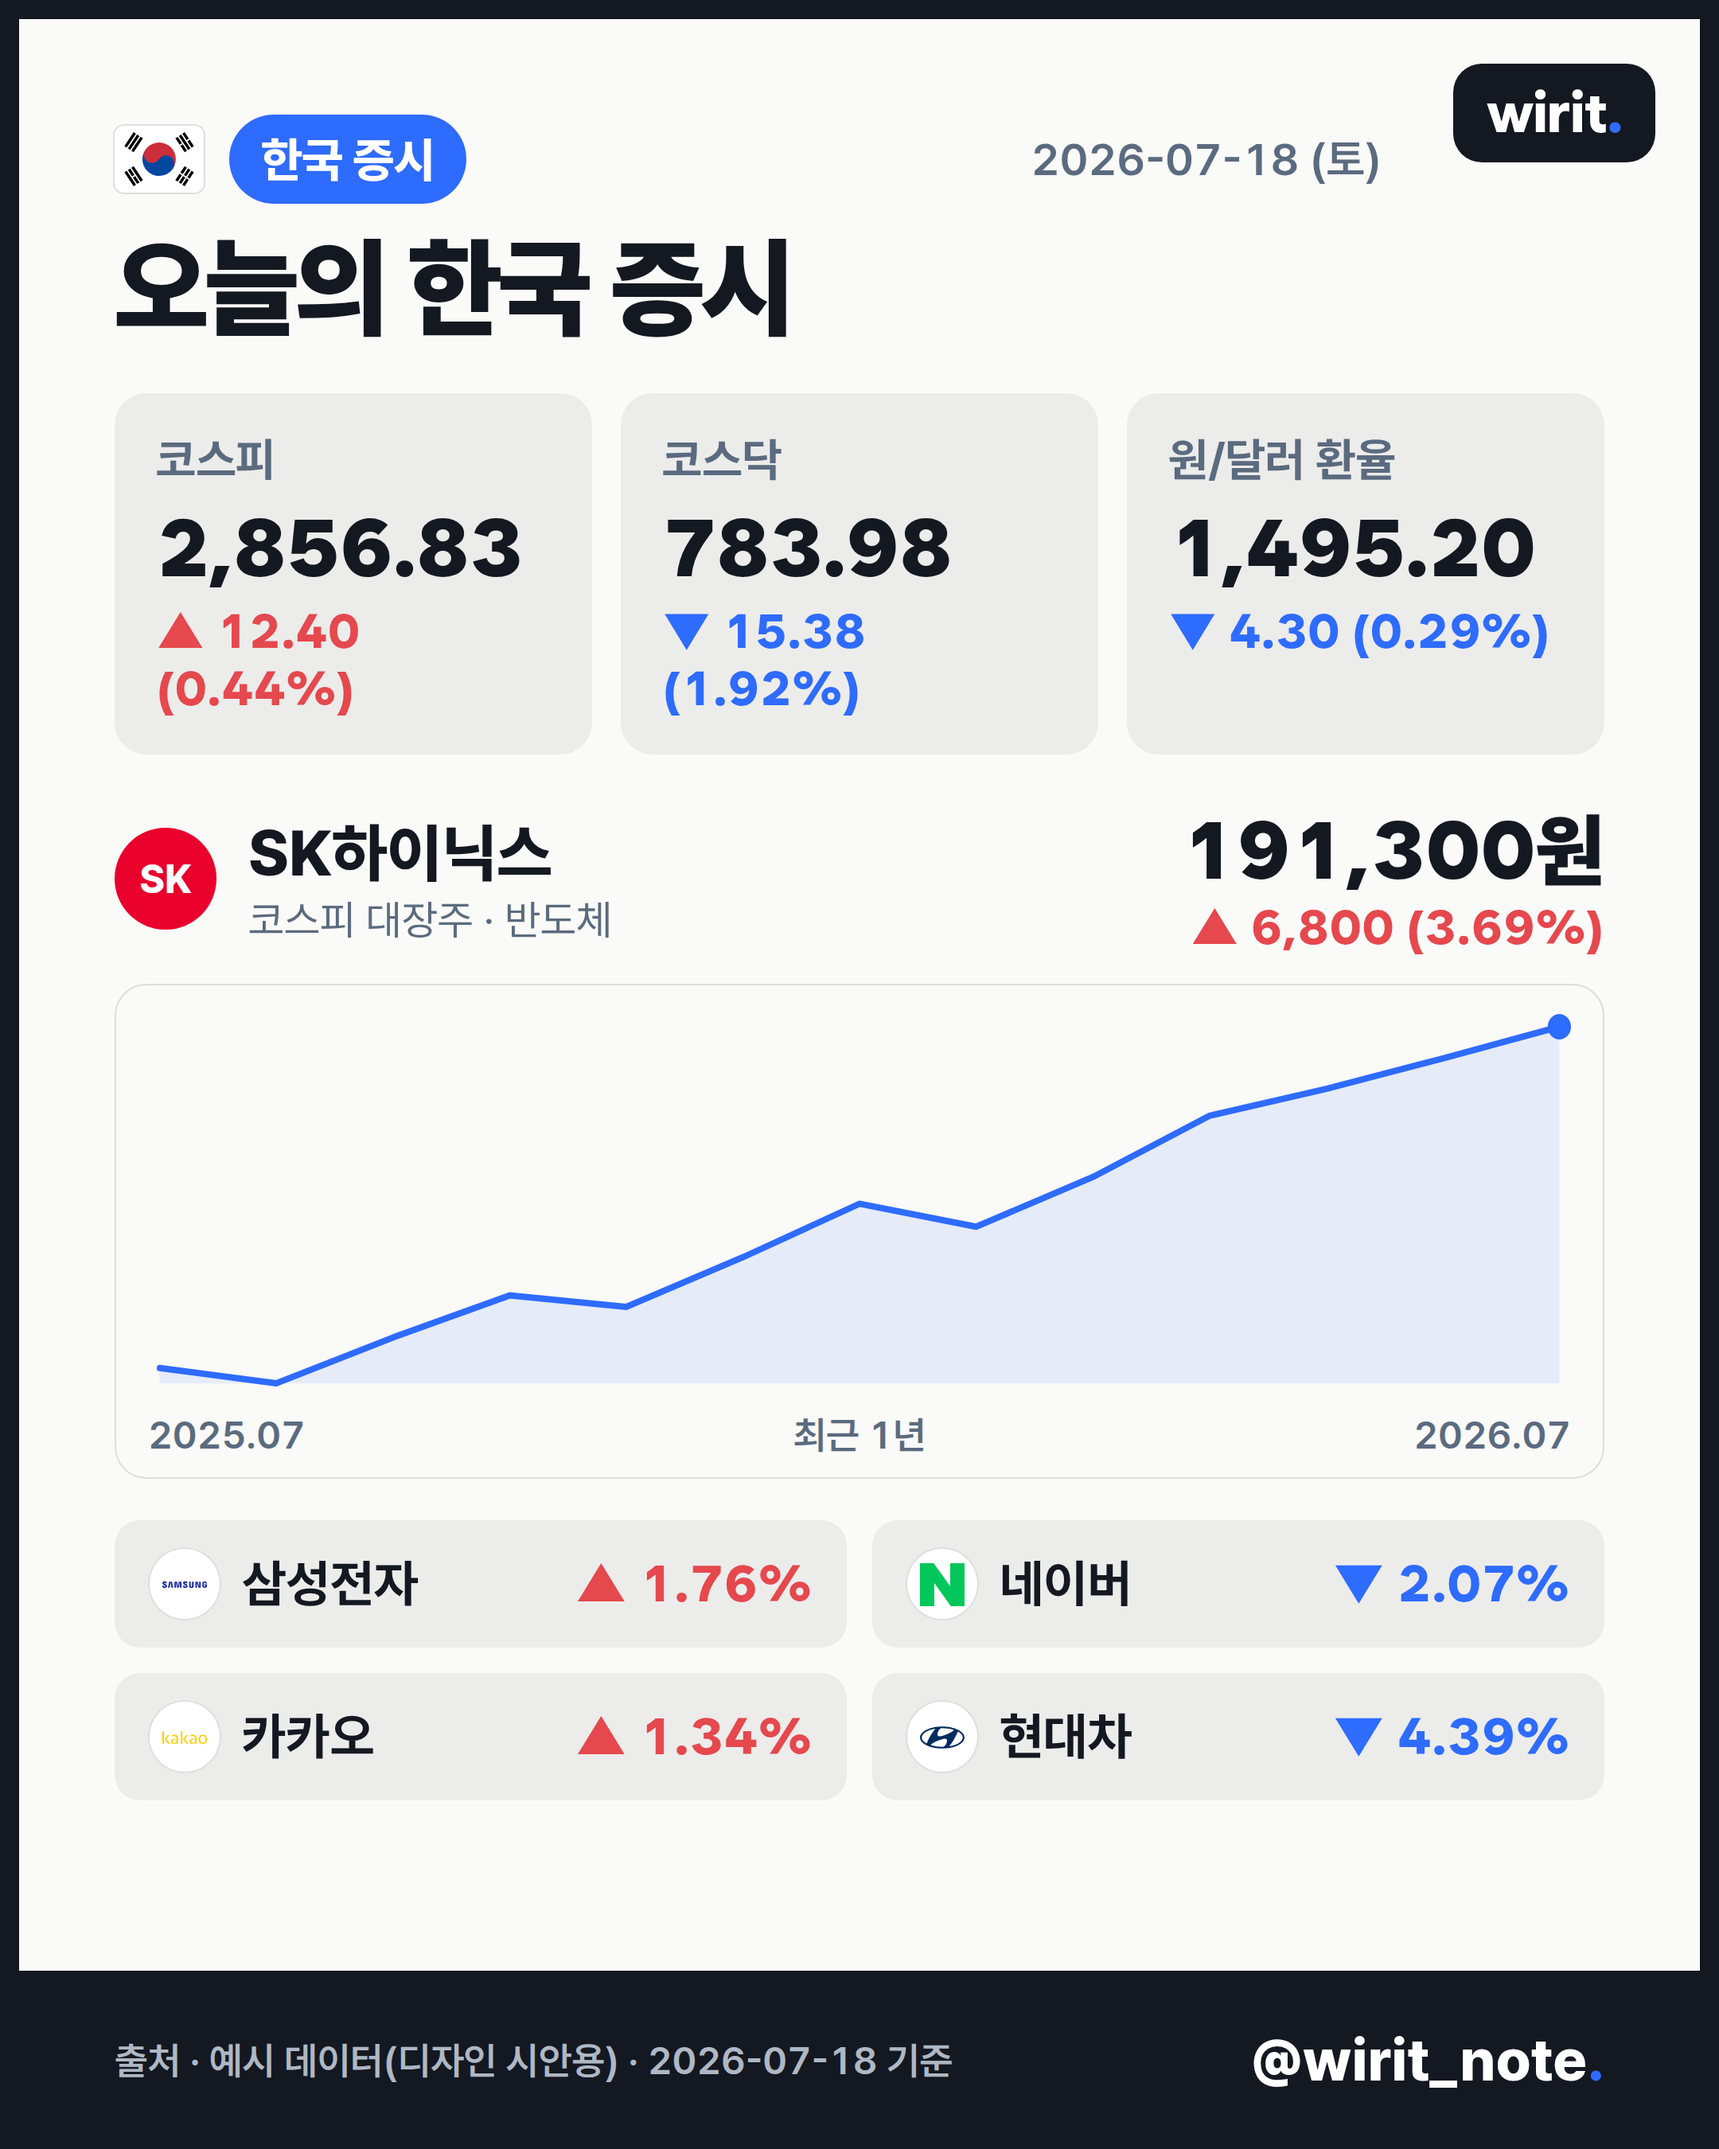
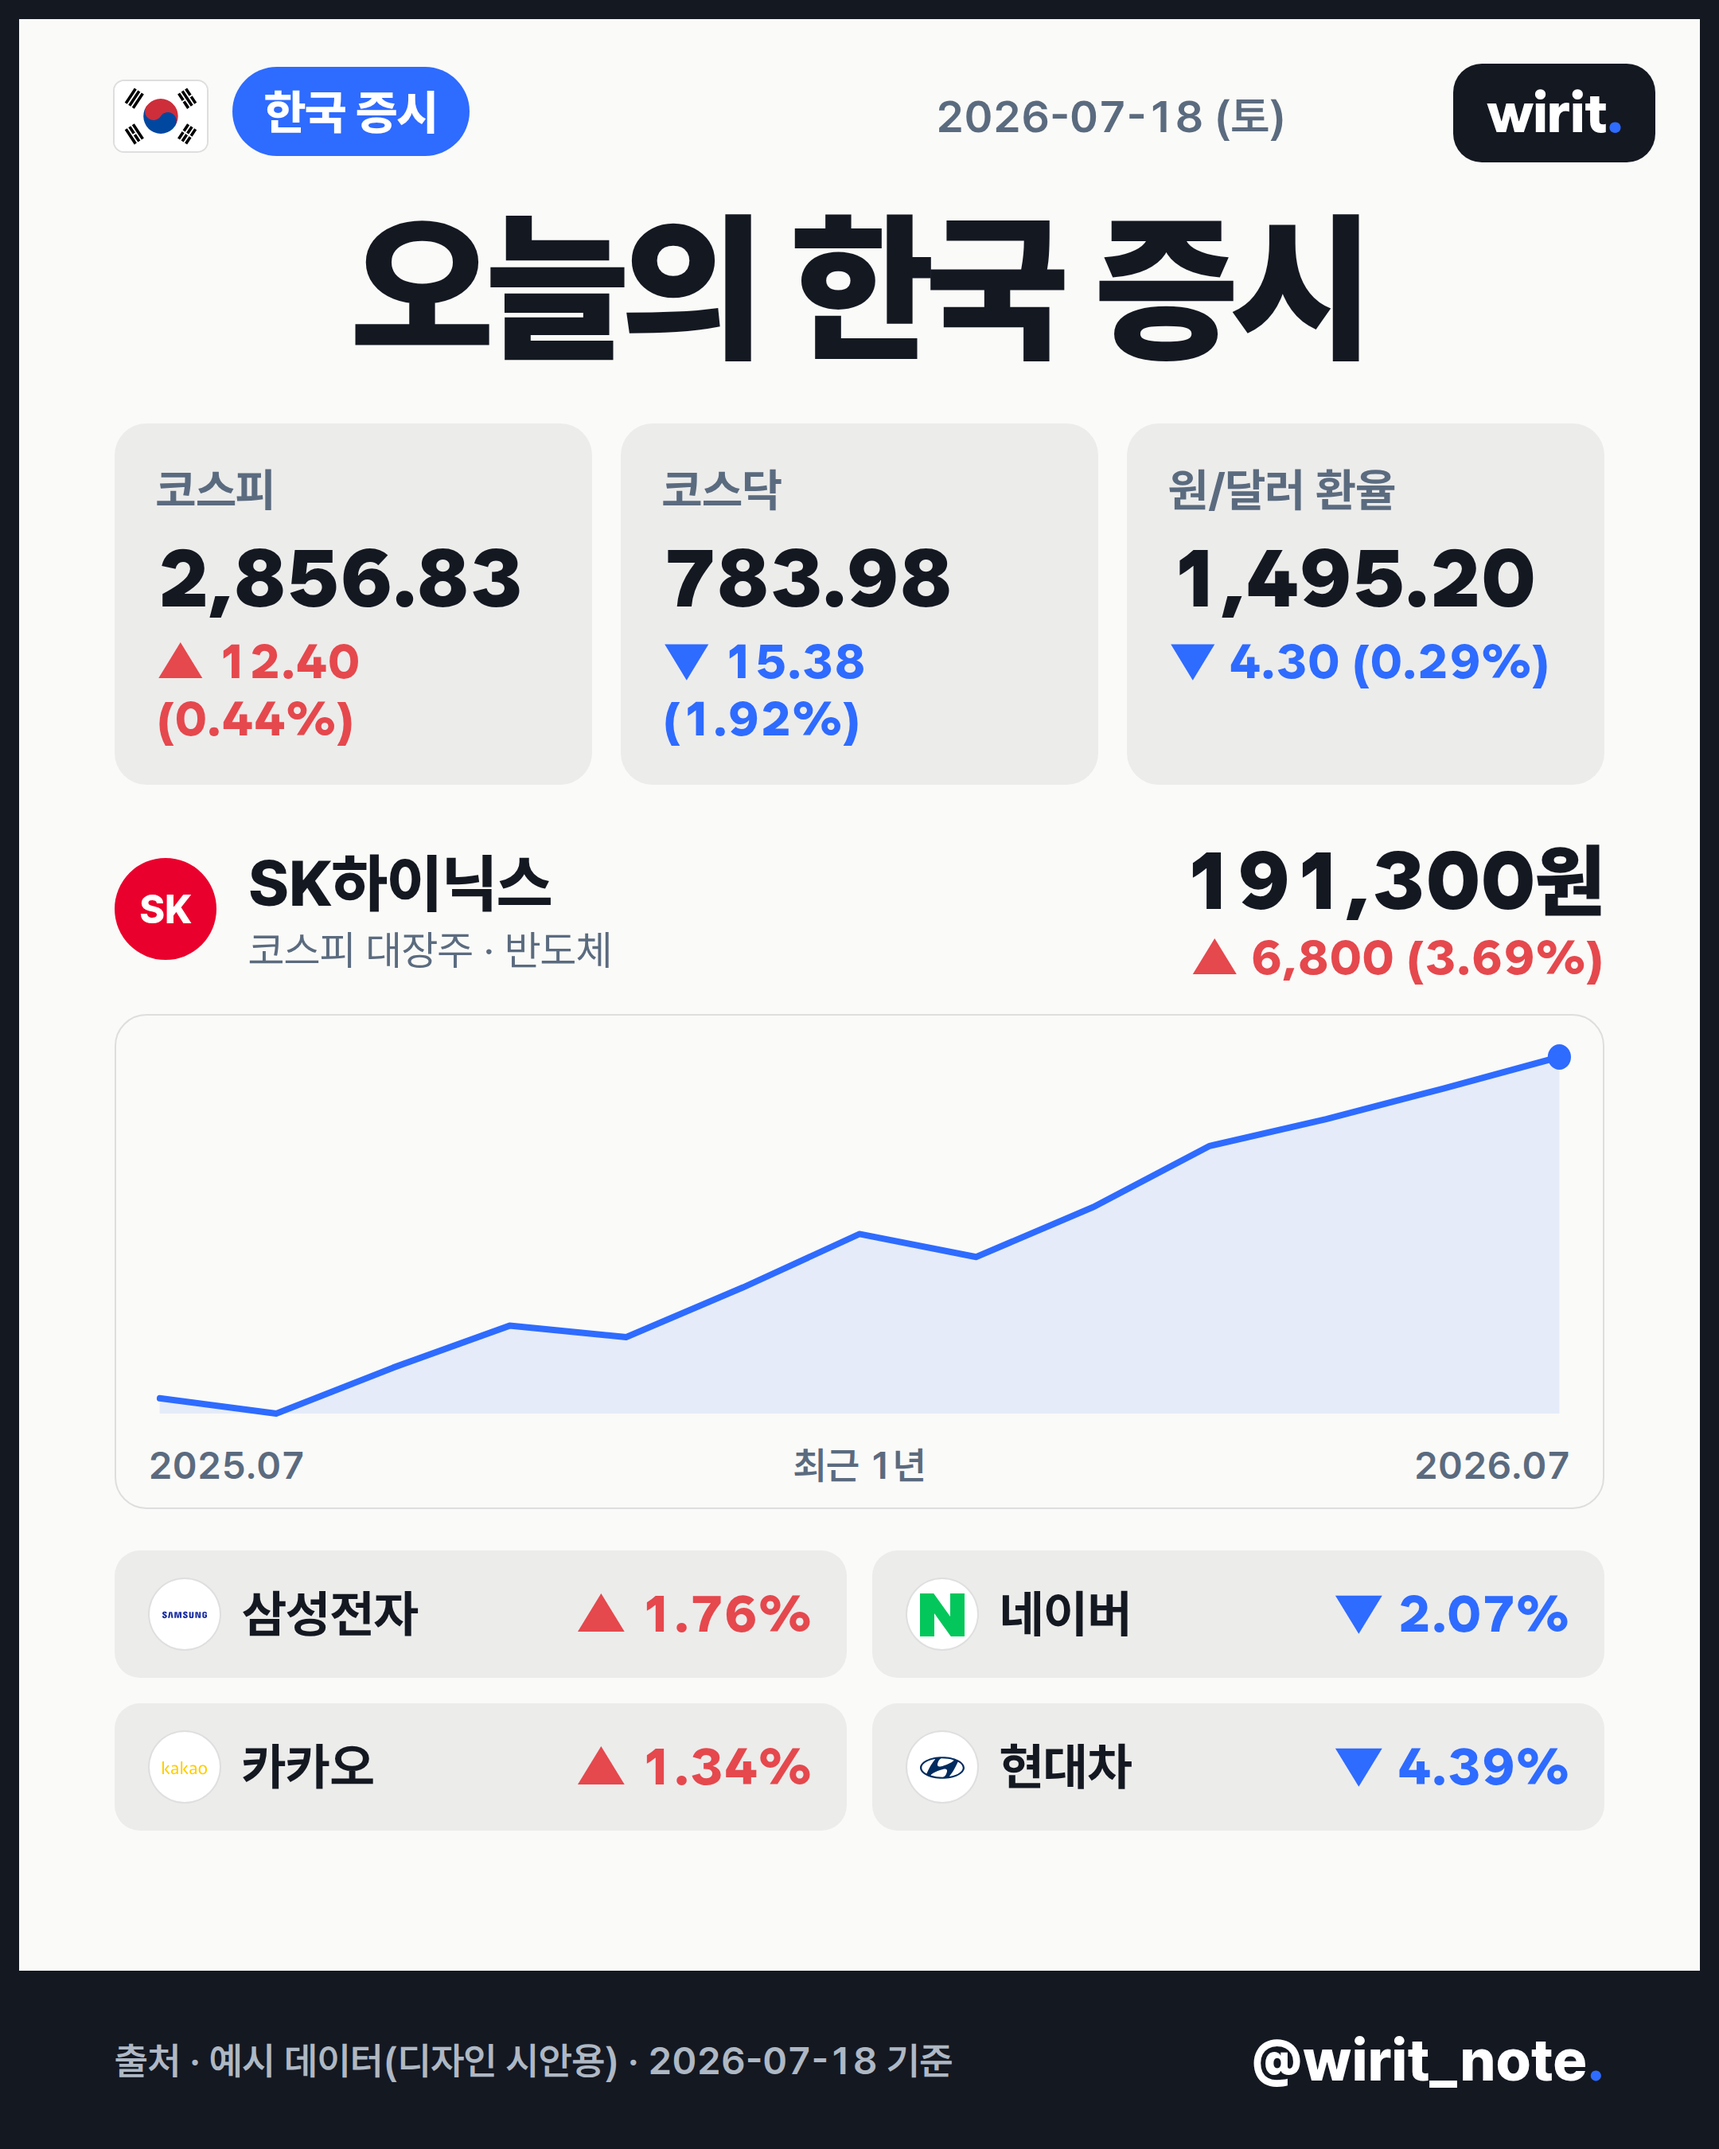
증시 카드 헤더 정비: 상단바 높이 정렬 + 제목 가운데·1.5배
- 태극기·한국증시 뱃지·날짜를 우상단 로고 뱃지와 같은 높이 라인에 정렬
- 제목(오늘의 한국 증시) 가운데 정렬 + 폰트 1.5배(68→102px)
- 미리보기 갱신

Claude-Session: https://claude.ai/code/session_011udkYLBNK9UFtPjocKSiQC

diff --git a/templates/market-daily/template.html b/templates/market-daily/template.html
@@ -10,15 +10,18 @@
       .md .down { color: var(--wirit-cobalt); }
       .md .flat { color: var(--wirit-gray); }
 
+      /* 상단 바: 태극기·뱃지·날짜를 우상단 로고 뱃지와 같은 높이 라인에 정렬 */
       .md-top {
         display: flex;
         align-items: center;
         gap: 16px;
-        padding-right: 140px; /* 우상단 원형 로고 자리 확보 */
+        margin-top: -30px; /* 로고 뱃지(top:40)와 수직 정렬 */
+        min-height: 62px; /* 로고 뱃지 높이에 맞춤 */
+        padding-right: 200px; /* 우상단 로고 뱃지 자리 확보 */
       }
       .flag {
-        width: 56px;
-        height: 42px;
+        width: 58px;
+        height: 44px;
         border-radius: 6px;
         object-fit: cover;
         box-shadow: 0 0 0 1px var(--wirit-ink-12);
@@ -29,9 +32,11 @@
         font-size: 28px;
         font-weight: 600;
       }
+      /* 제목: 가운데 정렬 + 1.5배 크게 */
       .md .wirit-title {
-        margin-top: 16px;
-        font-size: 68px;
+        margin-top: 22px;
+        font-size: 102px;
+        text-align: center;
       }
 
       /* 지수 타일 */
